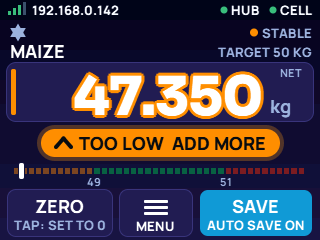
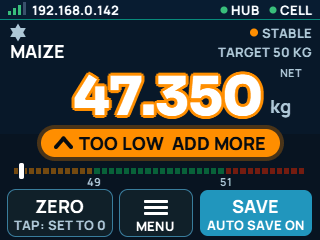
feat(wsoft-ui): Full Colour becomes the mini Edge look
Rhyno, 22 Nov 2026: Edge Touch colours on W-Soft. Deck navy fade, navy
status bar with a teal line (IP, Hub, Cell/Serial kept, nothing added),
the weight floating with no box and a thick zone outline, black words on
the zone pill, glass buttons with a cyan edge, blue SAVE.

Claude-Session: https://claude.ai/code/session_017CMFYso2TL2A6k5GrQCT9v

diff --git a/interface/src/project/wsoft/gen/wsoftScreen.js b/interface/src/project/wsoft/gen/wsoftScreen.js
@@ -514,11 +514,11 @@ const WsoftUi = (() => {
   const PLATE_LINE = c565('#C9D2DA'), SKY = c565('#1699D6'), SWOOSH = c565('#E4243B');
   // Full strength (Rhyno, 22 Nov 2026: "nice and bright", Ferrari red, no mustard).
   const VIVID_LOW = c565('#FF8C00'), VIVID_OK = c565('#00C853'), VIVID_HIGH = c565('#FF2800'), NIGHT = c565('#120D36');
-  // Full Colour is "Aurora" (Rhyno, 22 Nov 2026): a night-blue screen that fades down to Bunting,
-  // the weight in white on a dark glass card with a zone-coloured bar, and the word in black on a
-  // pill of the zone colour (Rhyno picked A, 22 Nov 2026).
-  const AUR_TOP = c565('#0B0726'), AUR_LOW = c565('#1B1446'), AUR_SOFT = c565('#9FB3D9');
-  const AUR_BTN = c565('#221C55'), AUR_LINE = c565('#3A3478'), AUR_BAR = c565('#07051A'), INK0 = c565('#0B0D10');
+  // Full Colour is "mini Edge" (Rhyno, 22 Nov 2026): the Edge Touch look. Deck navy fading down, a
+  // navy status bar with a teal line, the weight floating with no box and a thick zone outline, the
+  // word in black on a pill of the zone colour, glass buttons with a cyan edge and a blue SAVE.
+  const AUR_TOP = c565('#0d1b2a'), AUR_LOW = c565('#0b1420'), AUR_SOFT = c565('#a9c4d4'), EDGE_ON = c565('#2596be'), EDGE_TEAL = c565('#0e8a7d');
+  const AUR_BTN = c565('#13212f'), AUR_LINE = c565('#3f7f98'), AUR_BAR = c565('#0f1e33'), INK0 = c565('#0B0D10');
   // The ground: flat, or Aurora's fade in 6-line steps (y 20 is the top colour, y 240 the bottom).
   function ground(c, P, y0, h) {
     if (!P.grad) { c.rect(0, y0, 320, h, P.bg, 0); return; }
@@ -529,12 +529,12 @@ const WsoftUi = (() => {
     if (m.style !== STYLE_COLOUR) {
       const z = low ? VIVID_LOW : ok ? VIVID_OK : VIVID_HIGH;
       const z_ink = low ? NIGHT : WHITE;
-      return { bg: PLATE, ink: NAVY, soft: SLATE, shade: PLATE_LINE, btn: WHITE, btn_ink: NAVY, btn_soft: SLATE, bar: SKY, on: NAVY, on_ink: WHITE,
+      return { bg: PLATE, ink: NAVY, soft: SLATE, shade: PLATE_LINE, btn: WHITE, btn_ink: NAVY, btn_soft: SLATE, bar: SKY, on: NAVY, on_ink: WHITE, bar_line: SKY,
         grad: false, band: false, card: false, border: false, btn_line: PLATE_LINE, w_bg: PLATE, w_ink: NAVY, w_soft: SLATE, strip: SWOOSH,
         pill: z, pill_ink: z_ink, out: blend(PLATE, VIVID_LOW, 130), mid: blend(PLATE, VIVID_OK, 130), over: blend(PLATE, VIVID_HIGH, 130), dot: z, mark: NAVY, m_dot: z };
     }
     const z = low ? VIVID_LOW : ok ? VIVID_OK : VIVID_HIGH, bg = blend(AUR_TOP, AUR_LOW, 174);
-        return { bg, grad: true, ink: WHITE, soft: AUR_SOFT, shade: blend(bg, WHITE, 30), btn: AUR_BTN, btn_ink: WHITE, btn_soft: AUR_SOFT, bar: AUR_BAR, on: SKY, on_ink: WHITE,
+        return { bg, grad: true, ink: WHITE, soft: AUR_SOFT, shade: blend(bg, WHITE, 30), btn: AUR_BTN, btn_ink: WHITE, btn_soft: AUR_SOFT, bar: AUR_BAR, bar_line: EDGE_TEAL, on: EDGE_ON, on_ink: WHITE,
       band: false, card: true, border: true, btn_line: AUR_LINE, w_bg: AUR_BTN, w_ink: WHITE, w_soft: AUR_SOFT, strip: z,
       pill: z, pill_ink: INK0, out: blend(bg, VIVID_LOW, 110), mid: blend(bg, VIVID_OK, 110), over: blend(bg, VIVID_HIGH, 110), dot: z, mark: WHITE, m_dot: z };
   }
@@ -591,17 +591,13 @@ const WsoftUi = (() => {
     if (m.zone !== ZONE_NONE) {
       const P = colourSet(m, T);
       ground(c, P, 62, 60);
-      if (P.card) {
-        // Aurora glass card (Rhyno picked A, 22 Nov 2026): a thin line round it and a zone-coloured bar on the left.
-        c.rect(6, 62, 308, 60, P.btn_line, 10);
-        c.rect(7, 63, 306, 58, P.w_bg, 9);
-        c.rect(11, 69, 5, 46, P.strip, 2);
-      } else if (!P.band) c.rect(0, 64, 4, 56, P.strip, 0);
+      // Mini Edge: the weight floats on the ground, no box (Rhyno, 22 Nov 2026).
+      if (!P.card && !P.band) c.rect(0, 64, 4, 56, P.strip, 0);
       ink = P.w_ink; soft = P.w_soft;
     } else {
       c.rect(0, 62, 320, 60, bg, 0);
     }
-    // Aurora's card: the weight sits inside it with room to spare.
+    // Mini Edge: big numbers floating on the ground.
     if (m.zone !== ZONE_NONE && colourSet(m, T).card) {
       c.text(m.label, 302, 73, TINY, soft, RIGHT);
       // Big numbers with a thick outline in the full zone colour (Rhyno, 22 Nov 2026: "as big as
@@ -870,7 +866,7 @@ const WsoftUi = (() => {
     const look = style === STYLE_COLOUR || plateLook(m, style);
     c.clip(ROWS[row][0], ROWS[row][1]);
     if (row === ROW_BAR) {
-      if (look && m.zone !== ZONE_NONE) { const bg = colourSet(m, T).bar; paintBar(c, m, bg, bg); }
+      if (look && m.zone !== ZONE_NONE) { const P = colourSet(m, T); paintBar(c, m, P.bar, P.bar_line); }
       else paintBar(c, m, T.bar, T.bar_line);
     } else if (row === ROW_TOP) {
       if (look) paintTopColour(c, m, T); else if (style === STYLE_DIAL) paintTopDial(c, m, T); else paintTop(c, m, T);

diff --git a/tools/wsoft-ui/ref.js b/tools/wsoft-ui/ref.js
@@ -512,11 +512,11 @@ const WsoftUi = (() => {
   const PLATE_LINE = c565('#C9D2DA'), SKY = c565('#1699D6'), SWOOSH = c565('#E4243B');
   // Full strength (Rhyno, 22 Nov 2026: "nice and bright", Ferrari red, no mustard).
   const VIVID_LOW = c565('#FF8C00'), VIVID_OK = c565('#00C853'), VIVID_HIGH = c565('#FF2800'), NIGHT = c565('#120D36');
-  // Full Colour is "Aurora" (Rhyno, 22 Nov 2026): a night-blue screen that fades down to Bunting,
-  // the weight in white on a dark glass card with a zone-coloured bar, and the word in black on a
-  // pill of the zone colour (Rhyno picked A, 22 Nov 2026).
-  const AUR_TOP = c565('#0B0726'), AUR_LOW = c565('#1B1446'), AUR_SOFT = c565('#9FB3D9');
-  const AUR_BTN = c565('#221C55'), AUR_LINE = c565('#3A3478'), AUR_BAR = c565('#07051A'), INK0 = c565('#0B0D10');
+  // Full Colour is "mini Edge" (Rhyno, 22 Nov 2026): the Edge Touch look. Deck navy fading down, a
+  // navy status bar with a teal line, the weight floating with no box and a thick zone outline, the
+  // word in black on a pill of the zone colour, glass buttons with a cyan edge and a blue SAVE.
+  const AUR_TOP = c565('#0d1b2a'), AUR_LOW = c565('#0b1420'), AUR_SOFT = c565('#a9c4d4'), EDGE_ON = c565('#2596be'), EDGE_TEAL = c565('#0e8a7d');
+  const AUR_BTN = c565('#13212f'), AUR_LINE = c565('#3f7f98'), AUR_BAR = c565('#0f1e33'), INK0 = c565('#0B0D10');
   // The ground: flat, or Aurora's fade in 6-line steps (y 20 is the top colour, y 240 the bottom).
   function ground(c, P, y0, h) {
     if (!P.grad) { c.rect(0, y0, 320, h, P.bg, 0); return; }
@@ -527,12 +527,12 @@ const WsoftUi = (() => {
     if (m.style !== STYLE_COLOUR) {
       const z = low ? VIVID_LOW : ok ? VIVID_OK : VIVID_HIGH;
       const z_ink = low ? NIGHT : WHITE;
-      return { bg: PLATE, ink: NAVY, soft: SLATE, shade: PLATE_LINE, btn: WHITE, btn_ink: NAVY, btn_soft: SLATE, bar: SKY, on: NAVY, on_ink: WHITE,
+      return { bg: PLATE, ink: NAVY, soft: SLATE, shade: PLATE_LINE, btn: WHITE, btn_ink: NAVY, btn_soft: SLATE, bar: SKY, on: NAVY, on_ink: WHITE, bar_line: SKY,
         grad: false, band: false, card: false, border: false, btn_line: PLATE_LINE, w_bg: PLATE, w_ink: NAVY, w_soft: SLATE, strip: SWOOSH,
         pill: z, pill_ink: z_ink, out: blend(PLATE, VIVID_LOW, 130), mid: blend(PLATE, VIVID_OK, 130), over: blend(PLATE, VIVID_HIGH, 130), dot: z, mark: NAVY, m_dot: z };
     }
     const z = low ? VIVID_LOW : ok ? VIVID_OK : VIVID_HIGH, bg = blend(AUR_TOP, AUR_LOW, 174);
-        return { bg, grad: true, ink: WHITE, soft: AUR_SOFT, shade: blend(bg, WHITE, 30), btn: AUR_BTN, btn_ink: WHITE, btn_soft: AUR_SOFT, bar: AUR_BAR, on: SKY, on_ink: WHITE,
+        return { bg, grad: true, ink: WHITE, soft: AUR_SOFT, shade: blend(bg, WHITE, 30), btn: AUR_BTN, btn_ink: WHITE, btn_soft: AUR_SOFT, bar: AUR_BAR, bar_line: EDGE_TEAL, on: EDGE_ON, on_ink: WHITE,
       band: false, card: true, border: true, btn_line: AUR_LINE, w_bg: AUR_BTN, w_ink: WHITE, w_soft: AUR_SOFT, strip: z,
       pill: z, pill_ink: INK0, out: blend(bg, VIVID_LOW, 110), mid: blend(bg, VIVID_OK, 110), over: blend(bg, VIVID_HIGH, 110), dot: z, mark: WHITE, m_dot: z };
   }
@@ -589,17 +589,13 @@ const WsoftUi = (() => {
     if (m.zone !== ZONE_NONE) {
       const P = colourSet(m, T);
       ground(c, P, 62, 60);
-      if (P.card) {
-        // Aurora glass card (Rhyno picked A, 22 Nov 2026): a thin line round it and a zone-coloured bar on the left.
-        c.rect(6, 62, 308, 60, P.btn_line, 10);
-        c.rect(7, 63, 306, 58, P.w_bg, 9);
-        c.rect(11, 69, 5, 46, P.strip, 2);
-      } else if (!P.band) c.rect(0, 64, 4, 56, P.strip, 0);
+      // Mini Edge: the weight floats on the ground, no box (Rhyno, 22 Nov 2026).
+      if (!P.card && !P.band) c.rect(0, 64, 4, 56, P.strip, 0);
       ink = P.w_ink; soft = P.w_soft;
     } else {
       c.rect(0, 62, 320, 60, bg, 0);
     }
-    // Aurora's card: the weight sits inside it with room to spare.
+    // Mini Edge: big numbers floating on the ground.
     if (m.zone !== ZONE_NONE && colourSet(m, T).card) {
       c.text(m.label, 302, 73, TINY, soft, RIGHT);
       // Big numbers with a thick outline in the full zone colour (Rhyno, 22 Nov 2026: "as big as
@@ -868,7 +864,7 @@ const WsoftUi = (() => {
     const look = style === STYLE_COLOUR || plateLook(m, style);
     c.clip(ROWS[row][0], ROWS[row][1]);
     if (row === ROW_BAR) {
-      if (look && m.zone !== ZONE_NONE) { const bg = colourSet(m, T).bar; paintBar(c, m, bg, bg); }
+      if (look && m.zone !== ZONE_NONE) { const P = colourSet(m, T); paintBar(c, m, P.bar, P.bar_line); }
       else paintBar(c, m, T.bar, T.bar_line);
     } else if (row === ROW_TOP) {
       if (look) paintTopColour(c, m, T); else if (style === STYLE_DIAL) paintTopDial(c, m, T); else paintTop(c, m, T);

diff --git a/lib/wsoft_core/src/wsoft_ui_paint.cpp b/lib/wsoft_core/src/wsoft_ui_paint.cpp
@@ -290,18 +290,21 @@ static const uint16_t NIGHT = 0x1066;       // #120D36
 // Full Colour is "Aurora" (Rhyno, 22 Nov 2026): a night-blue screen that fades down to Bunting,
 // the weight in a banner filled with the zone's colour, and the word in black on a pill of the
 // same colour.
-static const uint16_t AUR_TOP = 0x0824;     // #0B0726
-static const uint16_t AUR_LOW = 0x18A8;     // #1B1446
-static const uint16_t AUR_SOFT = 0x9D9B;    // #9FB3D9
-static const uint16_t AUR_BTN = 0x20EA;     // #221C55
-static const uint16_t AUR_LINE = 0x39AF;    // #3A3478
-static const uint16_t AUR_BAR = 0x0023;     // #07051A
+// "Mini Edge" (Rhyno, 22 Nov 2026): the Edge Touch colours.
+static const uint16_t AUR_TOP = 0x08C5;     // #0d1b2a
+static const uint16_t AUR_LOW = 0x08A4;     // #0b1420
+static const uint16_t AUR_SOFT = 0xAE3A;    // #a9c4d4
+static const uint16_t AUR_BTN = 0x1105;     // #13212f
+static const uint16_t AUR_LINE = 0x3BF3;    // #3f7f98
+static const uint16_t AUR_BAR = 0x08E6;     // #0f1e33
+static const uint16_t EDGE_ON = 0x24B7;     // #2596be
+static const uint16_t EDGE_TEAL = 0x0C4F;   // #0e8a7d
 static const uint16_t INK0 = 0x0862;        // #0B0D10
 
 struct ColourSet {
   uint16_t bg, ink, soft, shade, btn, btn_ink, btn_soft, bar, on, on_ink;
   bool grad, band, card, border;
-  uint16_t btn_line;
+  uint16_t btn_line, bar_line;
   uint16_t w_bg, w_ink, w_soft, strip, pill, pill_ink, out, mid, over, dot, mark, m_dot;
 };
 
@@ -319,6 +322,7 @@ static ColourSet colour_set(const WsoftUiModel &m, const Theme &) {
     P.btn_soft = SLATE;
     P.bar = SKY;
     P.on = NAVY;
+    P.bar_line = SKY;
     P.on_ink = WHITE;
     P.grad = false;
     P.band = false;
@@ -349,7 +353,8 @@ static ColourSet colour_set(const WsoftUiModel &m, const Theme &) {
   P.btn_ink = WHITE;
   P.btn_soft = AUR_SOFT;
   P.bar = AUR_BAR;
-  P.on = SKY;
+  P.bar_line = EDGE_TEAL;
+  P.on = EDGE_ON;
   P.on_ink = WHITE;
   P.band = false;
   P.card = true;
@@ -442,18 +447,14 @@ static void paint_weight_colour(WsoftCanvas &c, const WsoftUiModel &m, const The
   if (m.zone != WSOFT_UI_ZONE_NONE) {
     ColourSet P = colour_set(m, T);
     ground(c, P, 62, 60);
-    if (P.card) {
-      // Aurora glass card (Rhyno picked A, 22 Nov 2026): a thin line round it and a zone-coloured bar on the left.
-      c.rect(6, 62, 308, 60, P.btn_line, 10);
-      c.rect(7, 63, 306, 58, P.w_bg, 9);
-      c.rect(11, 69, 5, 46, P.strip, 2);
-    } else if (!P.band) c.rect(0, 64, 4, 56, P.strip);
+    // Mini Edge: the weight floats on the ground, no box (Rhyno, 22 Nov 2026).
+    if (!P.card && !P.band) c.rect(0, 64, 4, 56, P.strip);
     ink = P.w_ink;
     soft = P.w_soft;
   } else {
     c.rect(0, 62, 320, 60, bg);
   }
-  // Aurora's card: the weight sits inside it with room to spare.
+  // Mini Edge: big numbers floating on the ground.
   if (m.zone != WSOFT_UI_ZONE_NONE && colour_set(m, T).card) {
     c.text(m.label, 302, 73, TINY, soft, WSOFT_RIGHT);
     // Big numbers with a thick outline in the full zone colour (Rhyno, 22 Nov 2026: "as big as
@@ -828,8 +829,8 @@ void wsoft_ui_paint_row(WsoftCanvas &c, const WsoftUiModel &m, int row) {
   switch (row) {
     case WSOFT_UI_ROW_BAR:
       if (colour && m.zone != WSOFT_UI_ZONE_NONE) {
-        uint16_t bg = colour_set(m, T).bar;
-        paint_bar(c, m, bg, bg);
+        ColourSet P = colour_set(m, T);
+        paint_bar(c, m, P.bar, P.bar_line);
       } else {
         paint_bar(c, m, T.bar, T.bar_line);
       }

diff --git a/test/test_wsoft_ui/golden.h b/test/test_wsoft_ui/golden.h
@@ -4,5 +4,5 @@
 
 #include <stdint.h>
 
-static const uint32_t GOLDEN_1X[] = {0x2EED3E39, 0xCB8630B6, 0x13C357CE, 0x1EF07A5D, 0x0CD5396A, 0xB3EDC79C, 0x4042B08A, 0x0169D3E2, 0x91E90C57, 0xFDF178CC, 0x9669DC47, 0x26D96EE3, 0x205B387A, 0xC8444119, 0x2D1F0669, 0x6BB1E900, 0x1E099634, 0xA7C846C0, 0x29F2D94F, 0x217565AE, 0xFFB61478, 0xCE17ED72, 0x29601460, 0x91CC4766, 0xC81A18F3, 0x2245DA02, 0xA5CD9DD1, 0x590DC4BD, 0xF199B32D, 0x5EAB980D, 0x080A5FD1, 0x08280860, 0x4A1EBEAC, 0xF50FE2DC, 0x7B7A81E0, 0xC91DEA67, 0x7E3C9985, 0xBD04EBC5, 0x8A6FF48C, 0x97CC09C8, 0x55A34D7F, 0x2A4D5EA5, 0x3817A669, 0xFBD72C38, 0xD09FC023, 0xCDD0EA2C, 0x06F4267C, 0x643D15C2, 0xA081F4C9, 0xCA67513E, 0x155F0C53, 0xB209D8DE, 0x9D2A6727, 0x76B8E117, 0x474DA559, 0xCD87CF7F};
-static const uint32_t GOLDEN_2X[] = {0x2CB597FA, 0xEE8355B3, 0x3DF3B986, 0xBB07AA83, 0x561022F2, 0x8AF27F6C, 0x087B2AE7, 0x6FA89258, 0x856FCB6E, 0x328374DB, 0x0C066F48, 0x8241D678, 0xCC0B4B47, 0x1A5164EE, 0x7C95CEA0, 0x3A34EC60, 0x63F98DCA, 0x6F641277, 0x9B7D4A8C, 0x3944787F, 0x54E248B5, 0x40334849, 0x7E49473E, 0x69F2874B, 0x1A43A21B, 0xA003525E, 0xAD3C0C0B, 0x180C86C7, 0x716A12D8, 0xAB1E2F78, 0xA01D40B3, 0x38BDE243, 0x4E5BCEA0, 0x5C949C25, 0x513400BD, 0x6872675A, 0x9407D5A7, 0x9E6B1D74, 0x2357EC97, 0x31DC200B, 0x091BCA9E, 0x1912BD4B, 0x5AFF1D91, 0x605D8B1D, 0x0C1DE447, 0xCD0E739D, 0x4114731D, 0xB51436EE, 0xEF58C3AE, 0x4D9B6EF7, 0x07E42EB8, 0x3B1B2A93, 0x693C7C78, 0x4B4F07A9, 0x78B24497, 0xFFE3EF41};
+static const uint32_t GOLDEN_1X[] = {0x2EED3E39, 0xCB8630B6, 0x13C357CE, 0x1EF07A5D, 0x0CD5396A, 0xB3EDC79C, 0x4042B08A, 0x0169D3E2, 0x91E90C57, 0xFDF178CC, 0x9669DC47, 0x26D96EE3, 0x205B387A, 0xC8444119, 0x2D1F0669, 0x6BB1E900, 0x1E099634, 0xA7C846C0, 0x29F2D94F, 0x217565AE, 0xFFB61478, 0xCE17ED72, 0x29601460, 0x91CC4766, 0xC81A18F3, 0x2245DA02, 0xA5CD9DD1, 0x590DC4BD, 0x482F14CD, 0x17B44FBF, 0x26E15A17, 0x789F8E65, 0xF9E78D34, 0x3DB6C743, 0x7B7A81E0, 0x2E51E492, 0xFFD67E3D, 0xBD04EBC5, 0x8A6FF48C, 0x97CC09C8, 0x55A34D7F, 0x2A4D5EA5, 0x3817A669, 0xFBD72C38, 0xD09FC023, 0xCDD0EA2C, 0x06F4267C, 0x830E4B13, 0xA081F4C9, 0xCA67513E, 0x155F0C53, 0xB209D8DE, 0x9D2A6727, 0xE742CE00, 0x474DA559, 0xCD87CF7F};
+static const uint32_t GOLDEN_2X[] = {0x2CB597FA, 0xEE8355B3, 0x3DF3B986, 0xBB07AA83, 0x561022F2, 0x8AF27F6C, 0x087B2AE7, 0x6FA89258, 0x856FCB6E, 0x328374DB, 0x0C066F48, 0x8241D678, 0xCC0B4B47, 0x1A5164EE, 0x7C95CEA0, 0x3A34EC60, 0x63F98DCA, 0x6F641277, 0x9B7D4A8C, 0x3944787F, 0x54E248B5, 0x40334849, 0x7E49473E, 0x69F2874B, 0x1A43A21B, 0xA003525E, 0xAD3C0C0B, 0x180C86C7, 0xB6816025, 0xFF1C5AD6, 0x87A15B53, 0x5CD1728A, 0x47C5E8A1, 0x4617E37C, 0x513400BD, 0xB7D35B80, 0xA3958AA5, 0x9E6B1D74, 0x2357EC97, 0x31DC200B, 0x091BCA9E, 0x1912BD4B, 0x5AFF1D91, 0x605D8B1D, 0x0C1DE447, 0xCD0E739D, 0x4114731D, 0xF0D4FCE6, 0xEF58C3AE, 0x4D9B6EF7, 0x07E42EB8, 0x3B1B2A93, 0x693C7C78, 0x5439B6CA, 0x78B24497, 0xFFE3EF41};
